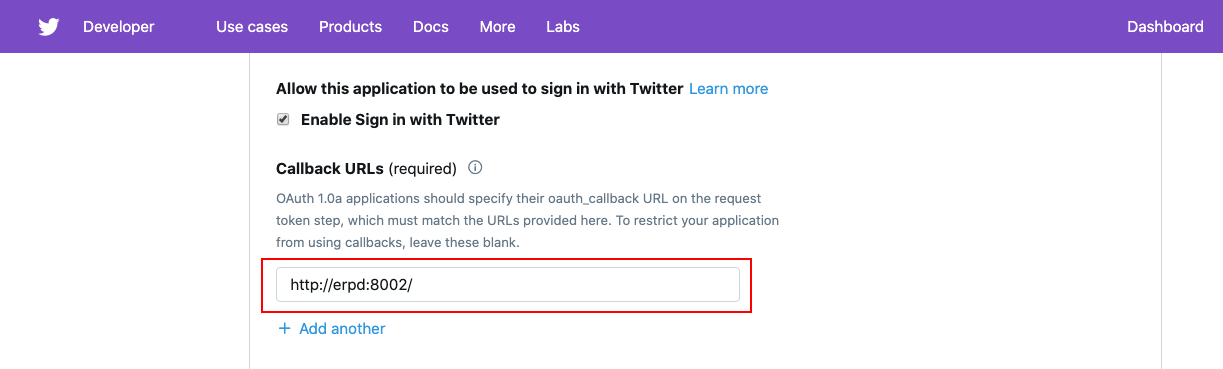
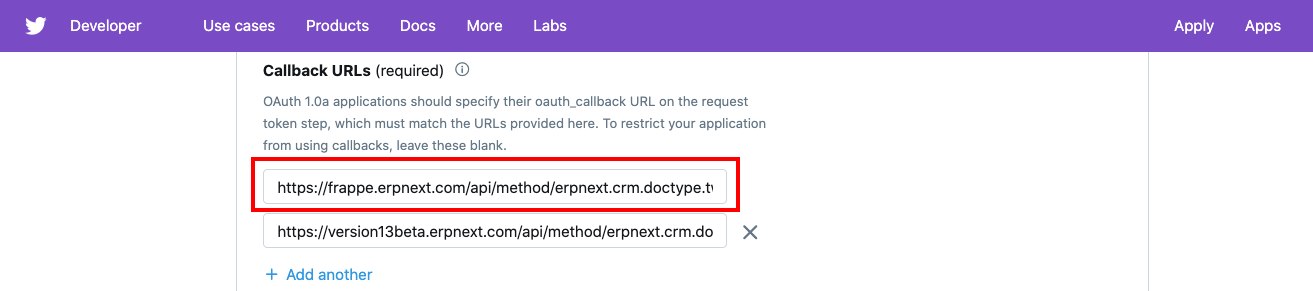
callback urls fix Twitter, LinkedIn

diff --git a/erpnext_documentation/www/docs/user/manual/en/CRM/linkedin-settings.md b/erpnext_documentation/www/docs/user/manual/en/CRM/linkedin-settings.md
@@ -29,9 +29,9 @@ Create App by link `https://www.linkedin.com/developers` fill all the details an
 
 1. Goto your LinkedIn Developers App then **Auth** tab.
 2. In **OAuth 2.0 settings** section add **Redirect URLs**:
-`https://{yoursite}/?cmd=erpnext.crm.doctype.linkedin_settings.linkedin_settings.callback`
+`https://{yoursite}/api/method/erpnext.crm.doctype.linkedin_settings.linkedin_settings.callback`
 3. Click **Update** to make changes. 
-![LinkedIn Redirect URL](/docs/assets/img/crm/linkedin-redirect-urls.gif)
+![LinkedIn Redirect URL](/docs/assets/img/crm/linkedin-redirect-urls.png)
 
 ## 2. How to set up LinkedIn Settings
 

diff --git a/erpnext_documentation/www/docs/user/manual/en/CRM/twitter-settings.md b/erpnext_documentation/www/docs/user/manual/en/CRM/twitter-settings.md
@@ -24,7 +24,8 @@ Create App by link `https://developer.twitter.com/` and check that the App has *
 ### 1.2. Configure Callback URL
 1. Select your App and go to **App Details**.
 2. Then go to **Edit** and click **Edit Details**.
-3. Add your website URL in **Callback URLs** like `https://erpnext.com`.
+3. Add your website URL in **Callback URLs** like:
+`https://{yoursite}/api/method/erpnext.crm.doctype.twitter_settings.twitter_settings.callback`
 4. Click **Save** to make changes. 
 
 ![Twitter App Callback URL](/docs/assets/img/crm/twitter-callback-url.png)
